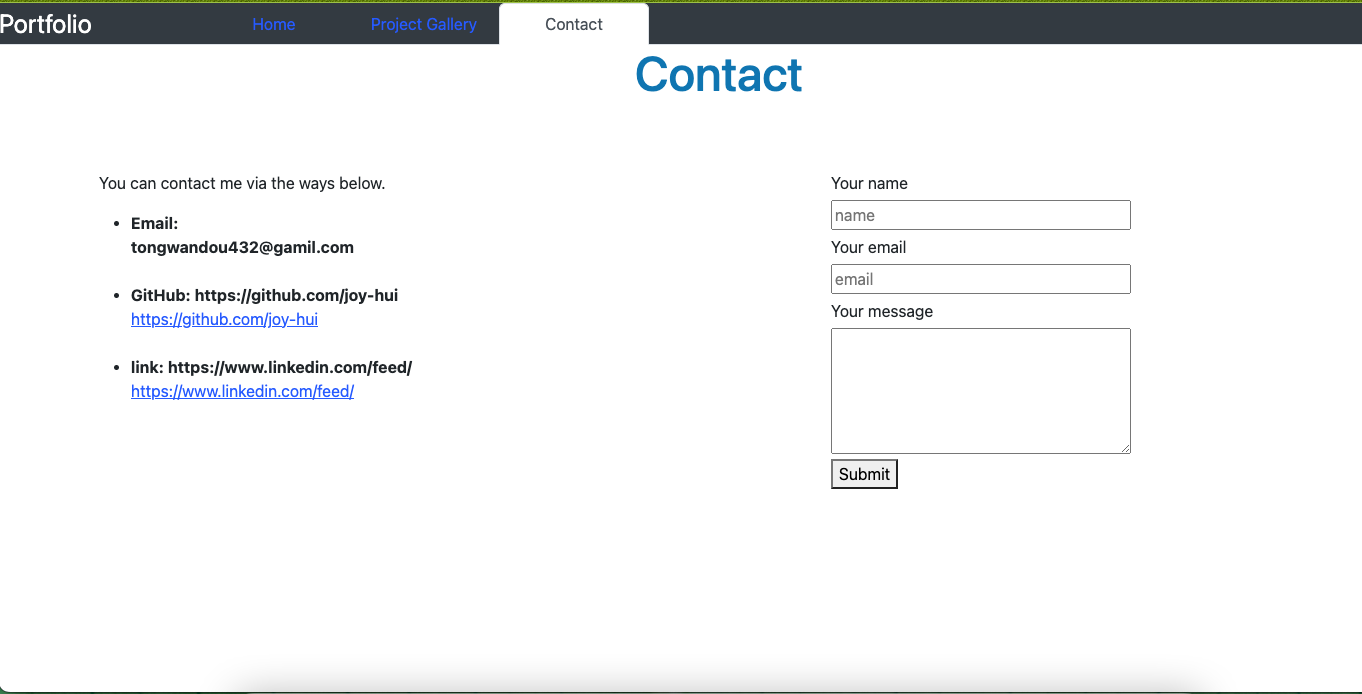
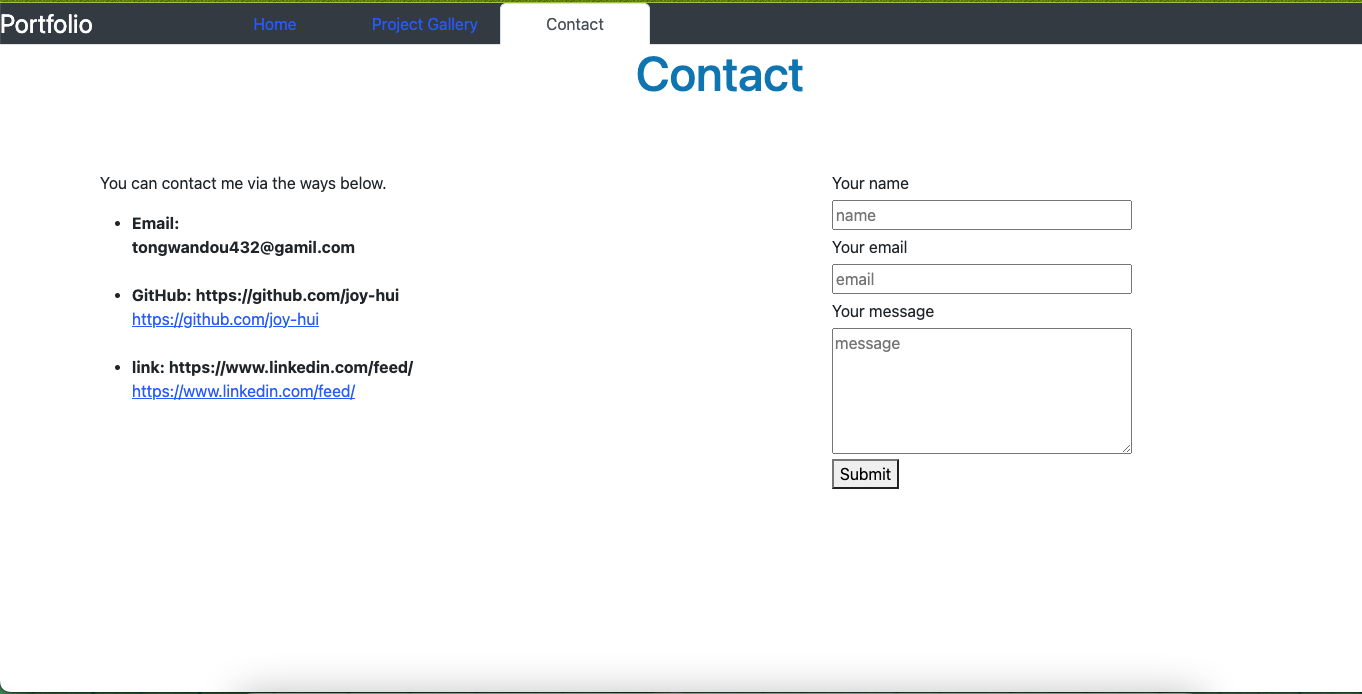
updata some problem

diff --git a/my-app/src/components/pages/Contact.js b/my-app/src/components/pages/Contact.js
@@ -7,12 +7,13 @@ const Contact = () => {
   const [formInput, setFormInput] = useState({
     firstName: "",
     lastName: "",
+    message:""
   });
 
   const handleInputChange = (e) => {
     // Getting the value and name of the input which triggered the change
     console.log(e.target);
-    const { name, value } = e.target;
+    const { name, value,message } = e.target;
 
     // Updating the input's state
     // It's important to make a copy of the existing form state using the spread operator (...) so you don't lose the data from previous input fields!
@@ -28,6 +29,7 @@ const Contact = () => {
     setFormInput({
       firstName: "",
       lastName: "",
+      message:""
     });
   };
   // Notice how each input has a `value`, `name`, and `onChange` prop
@@ -41,17 +43,28 @@ const Contact = () => {
             <div className="content">
               <ul>
                 <li>
-                  <strong>Email:  <br></br>tongwandou432@gamil.com</strong> 
+                  <strong>
+                    Email: <br></br>tongwandou432@gamil.com
+                  </strong>
                 </li>
                 <br></br>
                 <li>
-                  <strong>GitHub: https://github.com/joy-hui <br></br></strong><a href="https://github.com/joy-hui">https://github.com/joy-hui</a>
+                  <strong>
+                    GitHub: https://github.com/joy-hui <br></br>
+                  </strong>
+                  <a href="https://github.com/joy-hui">
+                    https://github.com/joy-hui
+                  </a>
                 </li>
                 <br></br>
                 <li>
-                  <strong>link: https://www.linkedin.com/feed/<br></br> </strong><a href="https://www.linkedin.com/feed/">https://www.linkedin.com/feed/</a> 
+                  <strong>
+                    link: https://www.linkedin.com/feed/<br></br>{" "}
+                  </strong>
+                  <a href="https://www.linkedin.com/feed/">
+                    https://www.linkedin.com/feed/
+                  </a>
                 </li>
-                
               </ul>
             </div>
           </form>
@@ -60,22 +73,26 @@ const Contact = () => {
           <form className="form">
             <label htmlFor="name">Your name</label>
             <input
-              
-              name="name"
+              value={formInput.firstName}
+              name="firstName"
               onChange={handleInputChange}
               type="text"
               placeholder="name"
             />
             <label htmlFor="email">Your email</label>
             <input
-              
-              name="email"
+              value={formInput.lastName}
+              name="lastName"
               onChange={handleInputChange}
               type="text"
               placeholder="email"
             />
             <label htmlFor="message">Your message</label>
-            <textarea name="message" rows="5" required></textarea>
+            <textarea value={formInput.message} name="message" 
+            onChange={handleInputChange}
+            type="text"
+            placeholder="message"
+            rows="5" required/>
             <button onClick={handleFormSubmit}>Submit</button>
           </form>
         </div>
